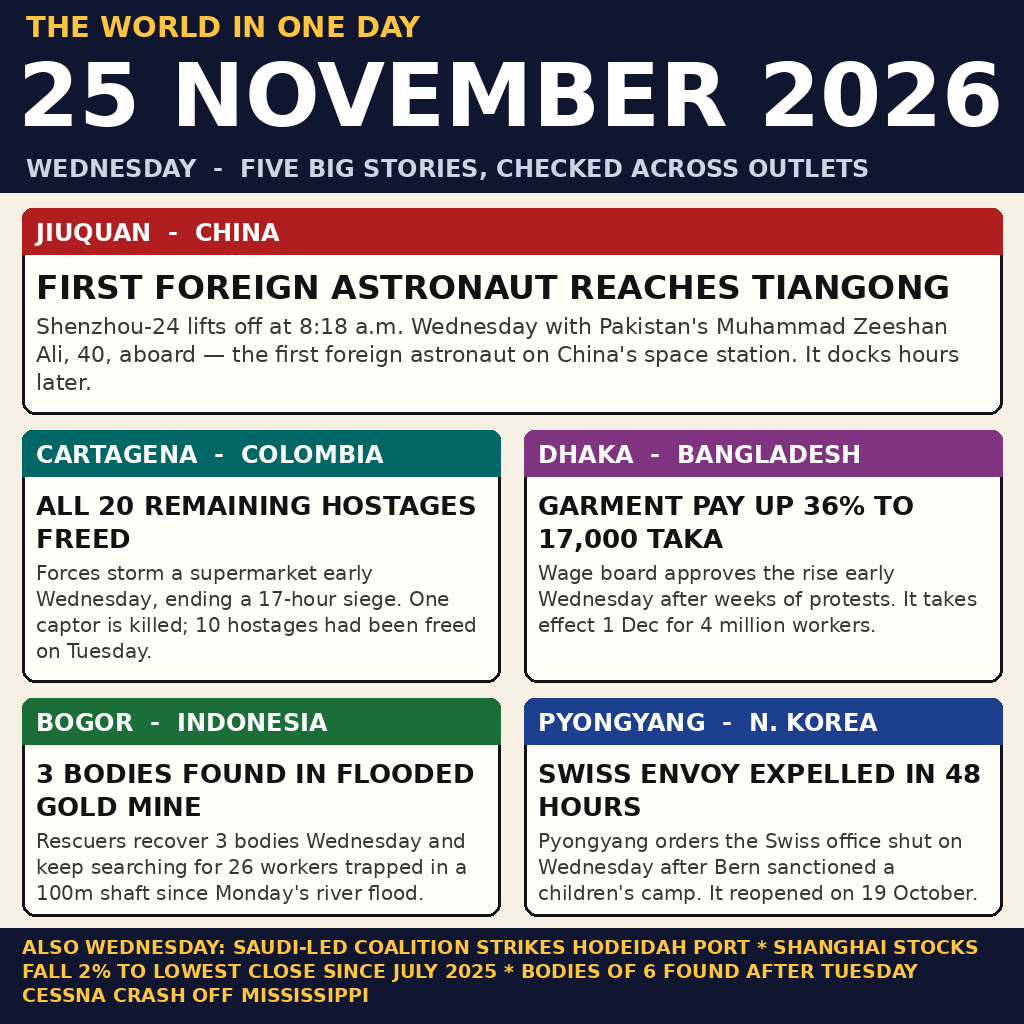
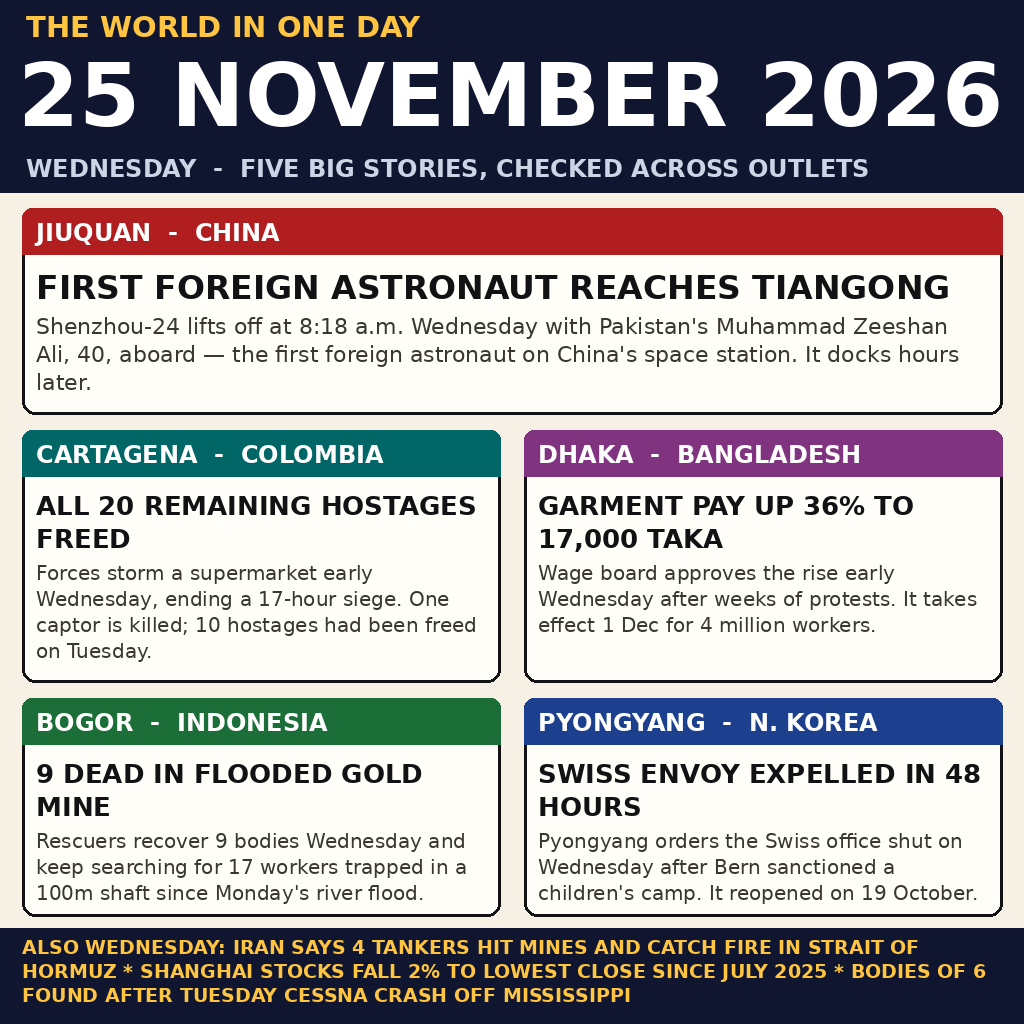
Morning re-check: Hormuz tankers in ticker, Bogor toll 9 dead / 17 trapped

Changed region(s): [[0.0312, 0.9062, 0.9688, 1.0], [0.0312, 0.7188, 0.4688, 0.8125], [0.2188, 0.8438, 0.25, 0.875]]

diff --git a/draw_entry.py b/draw_entry.py
@@ -25,11 +25,13 @@ presented as if it happened on Wednesday:
   It takes effect on 1 December for more than four million workers,
   after weeks of protests; unions had sought 18,000 taka.
   Sources: Reuters, TRT World, Prothom Alo, CNA.
-- Bogor, Indonesia: rescuers recover three bodies on Wednesday
-  from a flooded unauthorised gold mine and keep searching for 26
+- Bogor, Indonesia: rescuers recover nine bodies on Wednesday
+  from a flooded unauthorised gold mine and keep searching for 17
   workers trapped in a 100-metre shaft since Monday, when a river
   overflowed after heavy rain. Eleven miners escaped on Monday.
-  Sources: Reuters, CNA, Al Jazeera, Straits Times.
+  The toll rose during Wednesday, from three bodies recovered by
+  midday to nine by the evening.
+  Sources: Reuters, CNA, Al Jazeera, Straits Times, AP.
 - Pyongyang, North Korea: KCNA reports on Wednesday that North
   Korea has declared Sylvain Astier, head of the Swiss diplomatic
   office, persona non grata, giving him 48 hours to leave, and has
@@ -38,16 +40,17 @@ presented as if it happened on Wednesday:
   Kim Yo Jong threatened its closure on Tuesday.
   Sources: Reuters, Japan Times, CNA, Le Temps.
 
-Ticker, also Wednesday: the Saudi-led coalition strikes Hodeidah
-port early on Wednesday, and targets in Saada and Amran, a day
-after a Houthi drone hit a Riyadh tower and wounded 11 people,
-with four drones intercepted over Ras Tanura on Wednesday;
-Shanghai stocks fall 2 percent on Wednesday to their lowest close
-since July 2025 as a US tariff probe on 16 partners looms, and
-Beijing urges Washington to keep trade stable; the bodies of six
-people are found early on Wednesday after a Cessna 210 crashed
-on Tuesday off Horn Island, Mississippi, including two boys aged
-8 and 10.
+Ticker, also Wednesday: Iran's Revolutionary Guards say four
+tankers — three oil tankers and an LNG carrier — hit naval mines
+and caught fire in the Strait of Hormuz on Wednesday, two of them
+early in the day, in the third day of mine incidents there after
+three tankers on Monday and a tanker and a container ship on
+Tuesday; Shanghai stocks fall 2 percent on Wednesday to their
+lowest close since July 2025 as a US tariff probe on 16 partners
+looms, and Beijing urges Washington to keep trade stable; the
+bodies of six people are found early on Wednesday after a Cessna
+210 crashed on Tuesday off Horn Island, Mississippi, including
+two boys aged 8 and 10.
 """
 
 from pathlib import Path
@@ -153,9 +156,9 @@ def render_page():
           "of protests. It takes effect 1 Dec for 4 million workers.",
           title_pt=26, detail_pt=20)
     panel(d, (22, 698, 500, 916), (28, 110, 56), "BOGOR  -  INDONESIA",
-          "3 BODIES FOUND IN FLOODED GOLD MINE",
-          "Rescuers recover 3 bodies Wednesday and keep searching "
-          "for 26 workers trapped in a 100m shaft since Monday's "
+          "9 DEAD IN FLOODED GOLD MINE",
+          "Rescuers recover 9 bodies Wednesday and keep searching "
+          "for 17 workers trapped in a 100m shaft since Monday's "
           "river flood.",
           title_pt=26, detail_pt=20)
     panel(d, (524, 698, 1002, 916), (28, 64, 142), "PYONGYANG  -  N. KOREA",
@@ -168,7 +171,8 @@ def render_page():
     # Ticker along the foot of the page.
     d.rectangle([0, 928, SIZE, SIZE], fill=NAVY)
     ticker_text = (
-        "ALSO WEDNESDAY:  SAUDI-LED COALITION STRIKES HODEIDAH PORT  *  "
+        "ALSO WEDNESDAY:  IRAN SAYS 4 TANKERS HIT MINES AND CATCH FIRE "
+        "IN STRAIT OF HORMUZ  *  "
         "SHANGHAI STOCKS FALL 2% TO LOWEST CLOSE SINCE JULY 2025  *  "
         "BODIES OF 6 FOUND AFTER TUESDAY CESSNA CRASH OFF MISSISSIPPI"
     )

diff --git a/README.md b/README.md
@@ -24,17 +24,20 @@ cross-checked across several news sources reporting that day:
 - Bangladesh's wage board approves a 36% rise in the garment minimum
   wage early on Wednesday, to 17,000 taka a month from 12,500, after
   weeks of protests, for more than four million workers
-- Rescuers recover three bodies on Wednesday from a flooded gold mine
-  in Bogor, Indonesia, and keep searching for 26 workers trapped in
-  a 100-metre shaft since Monday's river flood
+- Rescuers recover nine bodies on Wednesday from a flooded gold mine
+  in Bogor, Indonesia, and keep searching for 17 workers trapped in
+  a 100-metre shaft since Monday's river flood (the toll rose during
+  Wednesday, from three bodies by midday to nine by the evening)
 - North Korea expels the head of the Swiss diplomatic office in
   Pyongyang on Wednesday, giving him 48 hours to leave, and orders
   the office shut, after Swiss sanctions on a children's camp
 
-A ticker adds the Saudi-led coalition striking Hodeidah port early on
-Wednesday, Shanghai stocks falling 2% on Wednesday to their lowest
-close since July 2025, and the bodies of six people found early on
-Wednesday after a Cessna 210 crashed on Tuesday off Mississippi.
+A ticker adds Iran saying four tankers — three oil tankers and an
+LNG carrier — hit naval mines and caught fire in the Strait of
+Hormuz on Wednesday, Shanghai stocks falling 2% on Wednesday to
+their lowest close since July 2025, and the bodies of six people
+found early on Wednesday after a Cessna 210 crashed on Tuesday
+off Mississippi.
 
 Stories first reported on Tuesday 24 November — the Shanghai party
 chief investigation, the Huawei verdict, and Ukraine's 2027 financing
